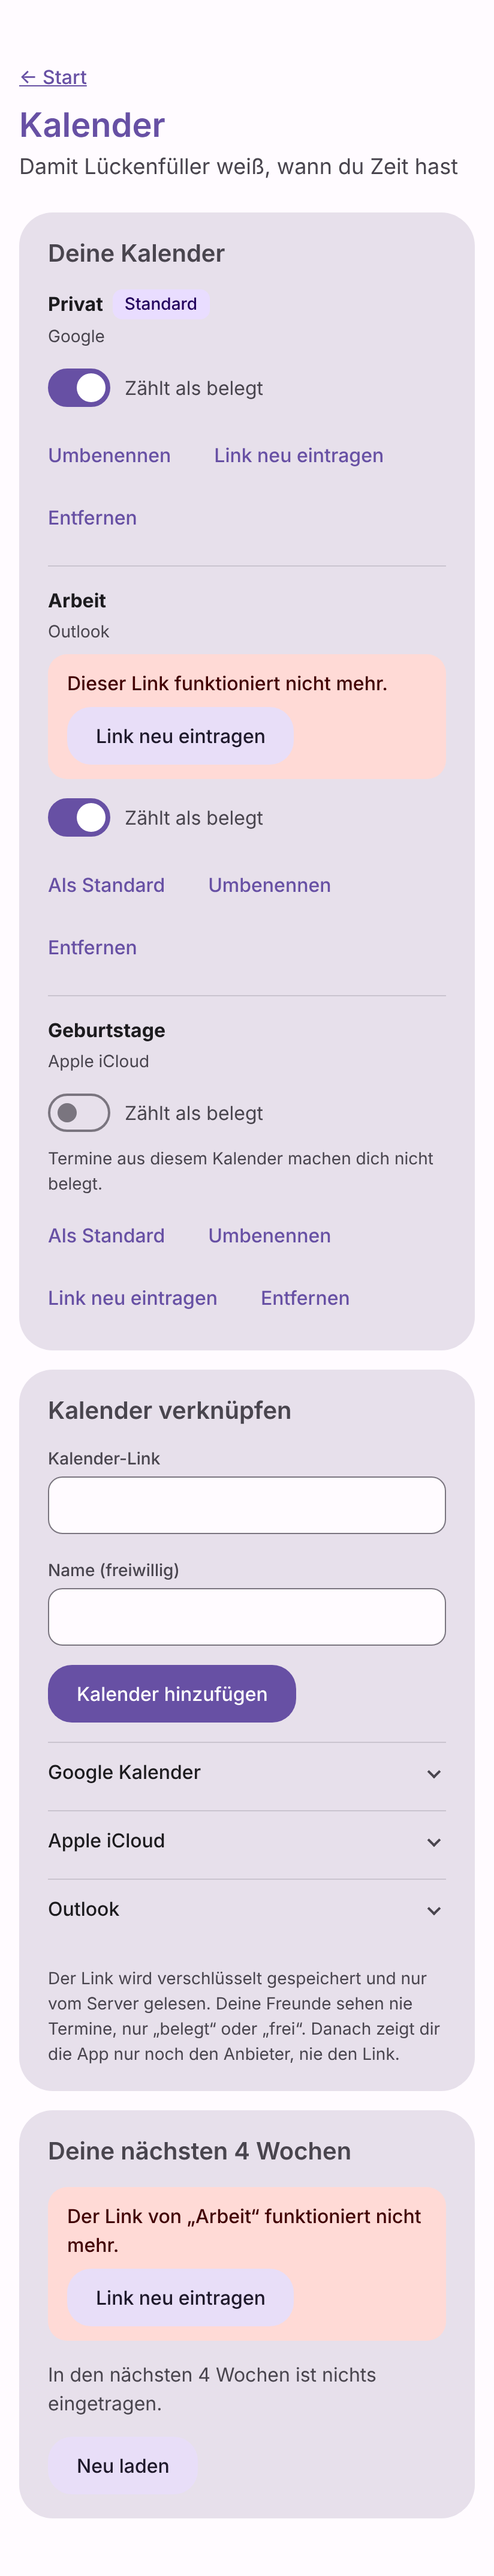
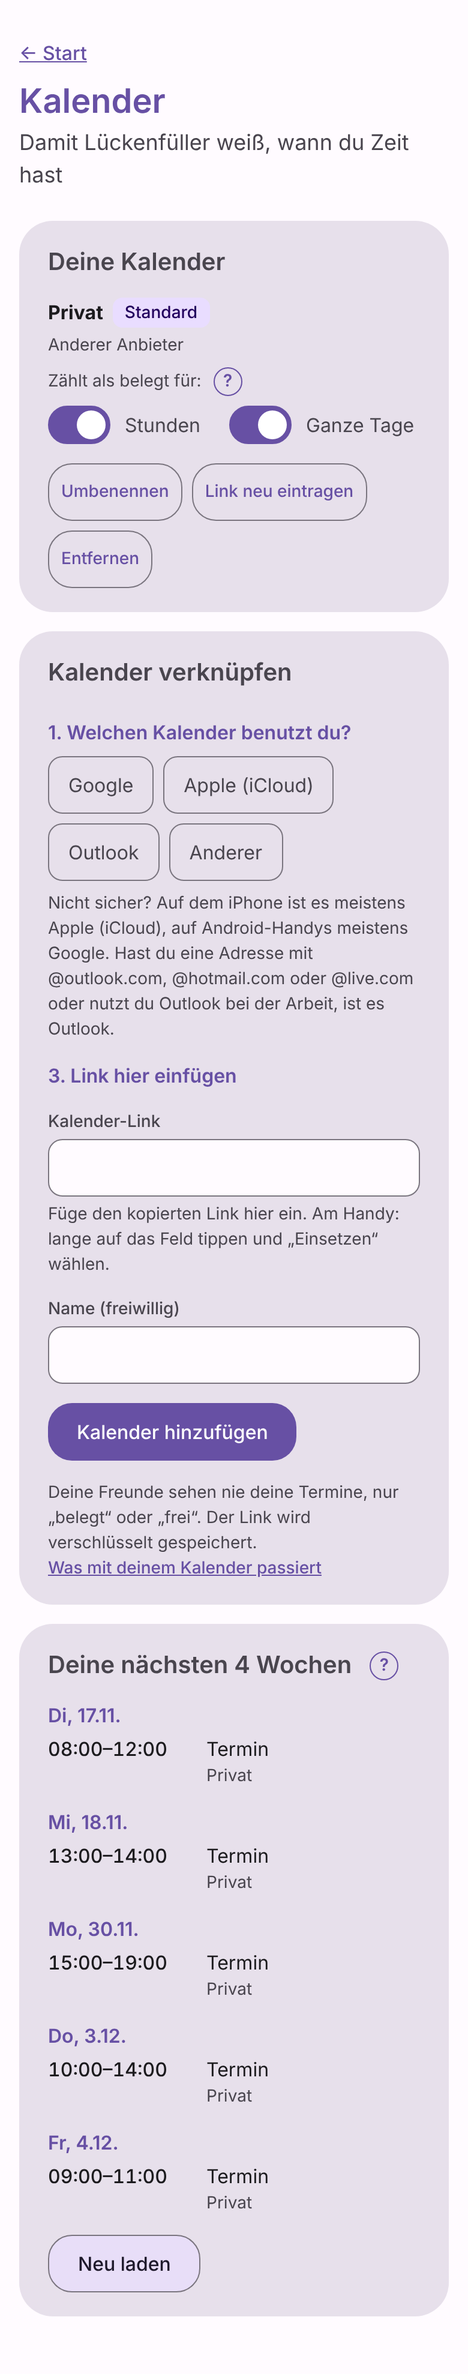
Take the calendars docs picture in the screenshot run
calendars.png was retaken by hand and still showed the single "Zählt als
belegt" switch. The run now takes it too (Anna's calendar with both
switches, the "?" buttons and the 4-week preview).

Claude-Session: https://claude.ai/code/session_01PQ1tum4K463qXgnt4aWqc9

Changed region(s): [[0.0308, 0.0, 0.9846, 0.9639], [0.4615, 0.1555, 0.7692, 0.2176]]

diff --git a/scripts/docs-screenshots/README.md b/scripts/docs-screenshots/README.md
@@ -1,6 +1,6 @@
 # Documentation screenshots
 
-Takes the pictures in `docs/screenshots` that show the whole app (login, invite, start page, profile, admin area,
+Takes the pictures in `docs/screenshots` that show the whole app (login, invite, start page, profile, calendars, admin area,
 search with groups and "Fast alle", the poll's calendar check, fixing the date) in one run, with made-up people and
 calendars on a throw-away server. Nothing here is part of the app, the server image or CI.
 
@@ -33,5 +33,5 @@ Things to know:
 - The start picture is cropped above the version line, which changes with every release.
 - A text or button that changes in the app can break a script step (they find things by their German text): fix the step
   in `shoot.cjs`; the run stops with Playwright's error and the step's line.
-- Pictures that are not made here (search result for days, "Server off", notifications, "Meine Abstimmungen", calendars,
+- Pictures that are not made here (search result for days, "Server off", notifications, "Meine Abstimmungen",
   Android) are older and are retaken by hand when their screen changes.
